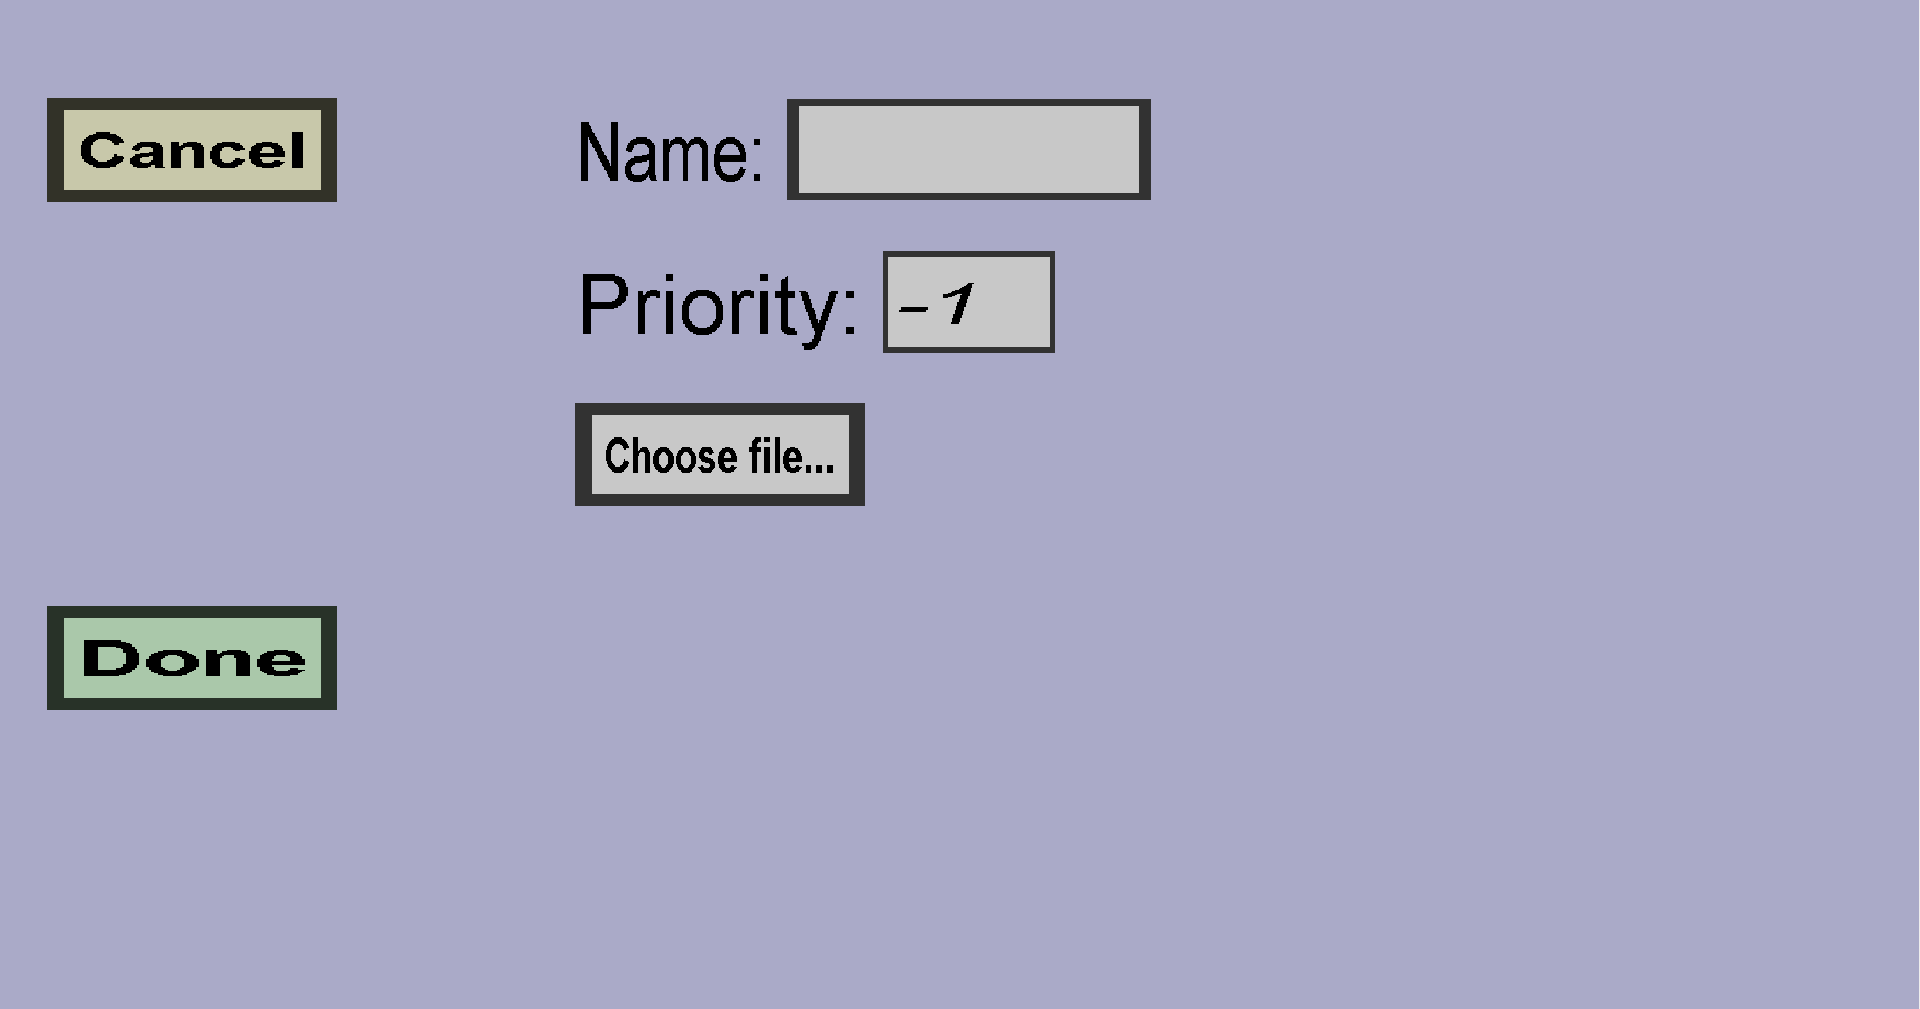
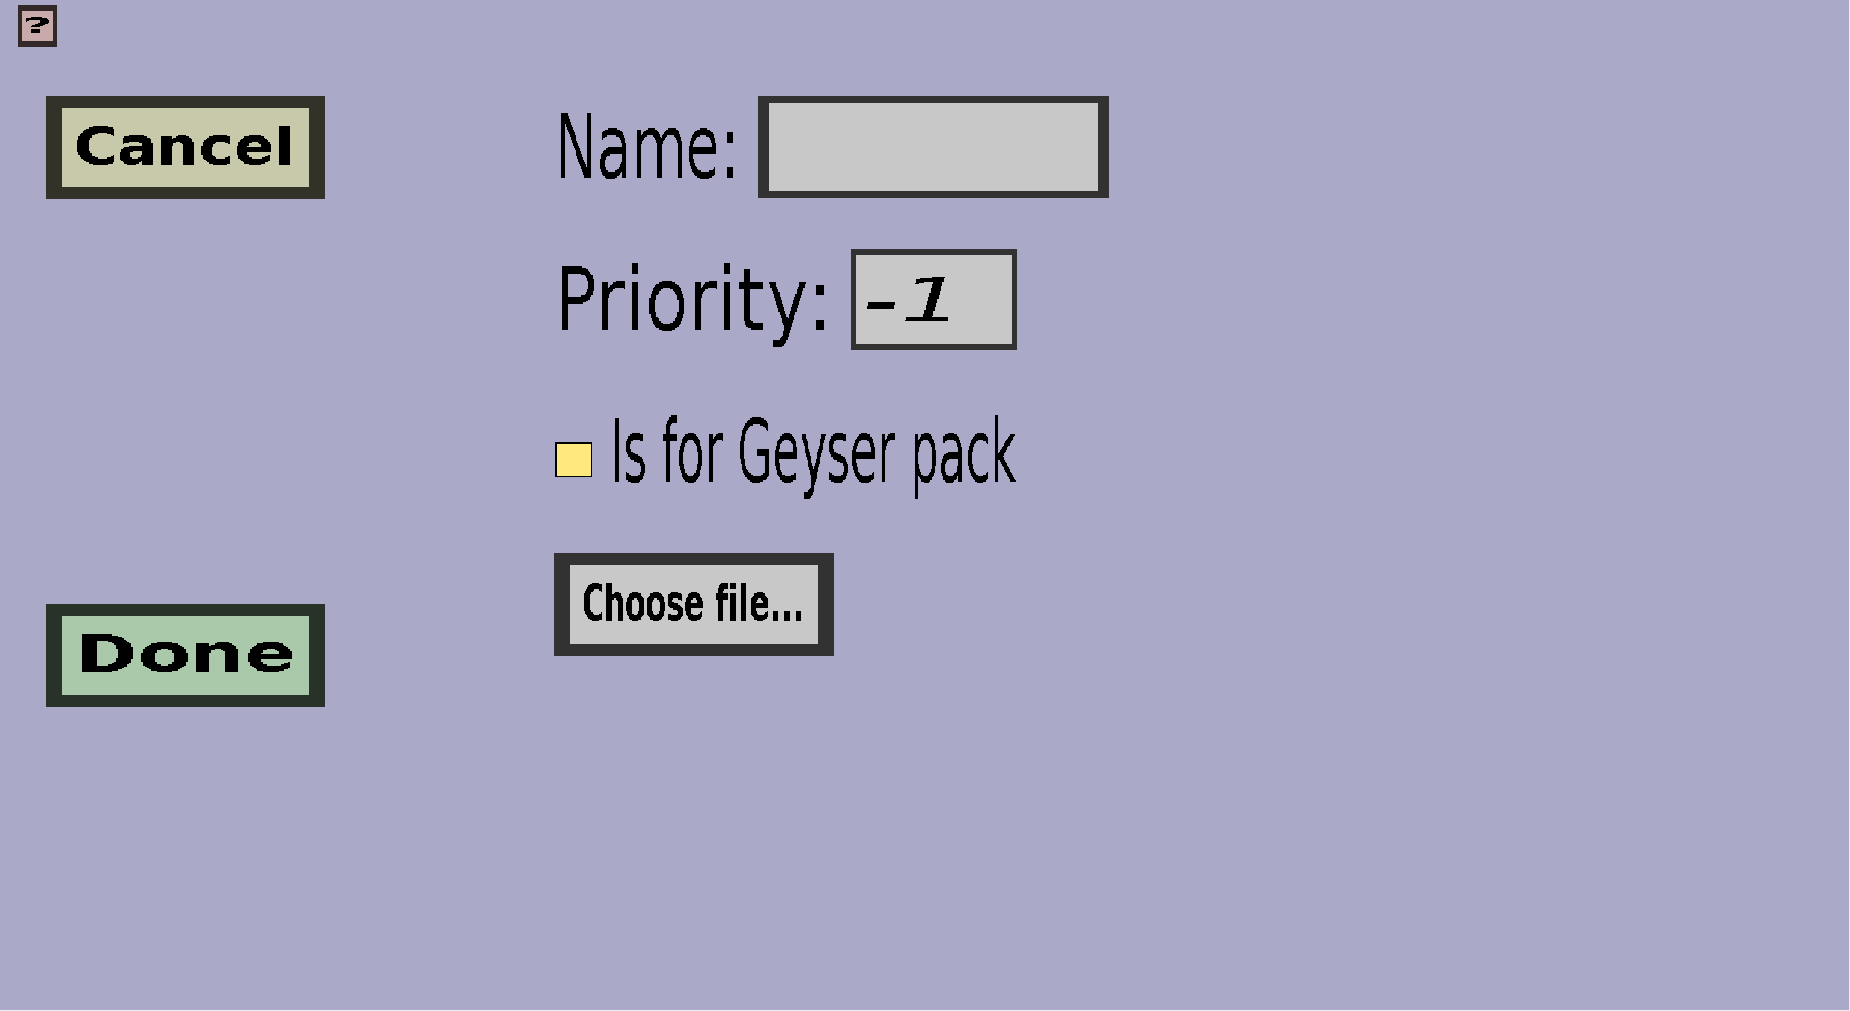
Document the combined geyserpacks of KCI 13

diff --git a/custom items/editor documentation/edit menu/combined resourcepacks/edit.html b/custom items/editor documentation/edit menu/combined resourcepacks/edit.html
@@ -51,6 +51,17 @@
             can overwrite files of the Editor resourcepack, which can easily break the custom texture system. Priorities
             above 0 are mostly useful for advanced users that really know what they are doing.
         </p>
+        <h3>Is for Geyser pack</h3>
+        Whether this is a Geyser/Bedrock edition resourcepack.
+        <ul>
+            <li>
+                When this box is checked, this resourcepack will be combined with the Bedrock edition resourcepack.
+            </li>
+            <li>
+                When this box is <b>not checked</b>, this resourcepack will be combined
+                with the Java edition resourcepack.
+            </li>
+        </ul>
         <h3>Choose file...</h3>
         <p>
             Click this button to select the actual resourcepack that is to be combined.
